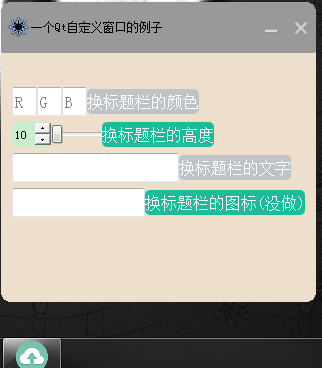
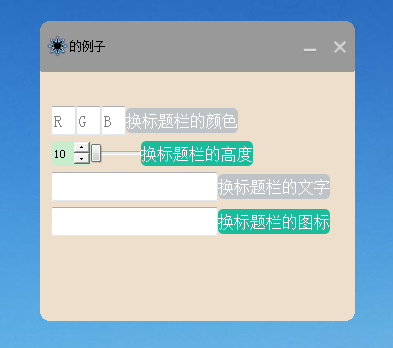
修改的变量

diff --git a/succ.cpp b/succ.cpp
@@ -49,9 +49,9 @@ void succ::SetRect()
 void succ::SetColor()
 {
   bool ok;
-  int a = color_text1->text().toInt(&ok,10),
-      b = color_text2->text().toInt(&ok,10),
-      c = color_text3->text().toInt(&ok,10);  //将QString类型转换为int类型
+  int a = m_pTextColorR->text().toInt(&ok,10),
+      b = m_pTextColorG->text().toInt(&ok,10),
+      c = m_pTextColorB->text().toInt(&ok,10);  //将QString类型转换为int类型
 
   if(a<0 ||a>255|| b<0 ||b>255|| c<0 ||c>255)
      {
@@ -70,17 +70,17 @@ void succ::SetColor()
 void succ::Interface()
 {
 //颜色
-  color_btn = new QPushButton(QStringLiteral("换标题栏的颜色"));
-  color_text1 =new QLineEdit;color_text1->setPlaceholderText("R");color_text1->setFixedWidth(25);
-  color_text2 =new QLineEdit;color_text2->setPlaceholderText("G");color_text2->setFixedWidth(25);
-  color_text3 =new QLineEdit;color_text3->setPlaceholderText("B");color_text3->setFixedWidth(25);
-  hb = new QHBoxLayout;
-  hb->setSpacing(0); //使hb中的控件间的间距为0
-  hb->addWidget(color_text1);
-  hb->addWidget(color_text2);
-  hb->addWidget(color_text3);
-  hb->addWidget(color_btn);
-  hb->addStretch();//靠左对齐
+  m_pBtnColor = new QPushButton(QStringLiteral("换标题栏的颜色"));
+  m_pTextColorR =new QLineEdit;m_pTextColorR->setPlaceholderText("R");m_pTextColorR->setFixedWidth(25);
+  m_pTextColorG =new QLineEdit;m_pTextColorG->setPlaceholderText("G");m_pTextColorG->setFixedWidth(25);
+  m_pTextColorB =new QLineEdit;m_pTextColorB->setPlaceholderText("B");m_pTextColorB->setFixedWidth(25);
+  m_pColorLayout = new QHBoxLayout;
+  m_pColorLayout->setSpacing(0); //使hb中的控件间的间距为0
+  m_pColorLayout->addWidget(m_pTextColorR);
+  m_pColorLayout->addWidget(m_pTextColorG);
+  m_pColorLayout->addWidget(m_pTextColorB);
+  m_pColorLayout->addWidget(m_pBtnColor);
+  m_pColorLayout->addStretch();//靠左对齐
 
 
 
@@ -89,12 +89,12 @@ void succ::Interface()
   int nMax = 100;
   int nSingleStep = 5;
   // 微调框
-  pSpinBox = new QSpinBox(this);
-  pSpinBox->setFixedWidth(40);
-  pSpinBox->setMinimum(nMin);  // 最小值
-  pSpinBox->setMaximum(nMax);  // 最大值
-  pSpinBox->setSingleStep(nSingleStep);  // 步长
-  pSpinBox->setValue(10); //默认值为10
+  m_pSpinBox = new QSpinBox(this);
+  m_pSpinBox->setFixedWidth(40);
+  m_pSpinBox->setMinimum(nMin);  // 最小值
+  m_pSpinBox->setMaximum(nMax);  // 最大值
+  m_pSpinBox->setSingleStep(nSingleStep);  // 步长
+  m_pSpinBox->setValue(10); //默认值为10
 
   // 滑动条
   QSlider *pSlider = new QSlider(this);
@@ -107,69 +107,69 @@ void succ::Interface()
 
 
 
-  btn_h = new QPushButton(QStringLiteral("换标题栏的高度"));
-  hb1 = new QHBoxLayout;
-  hb1->addWidget(pSpinBox);
-  hb1->addWidget(pSlider);
-  hb1->addWidget(btn_h);
-  hb1->addStretch();//靠左对齐
-  hb1->setSpacing(0); //使hb中的控件间的间距为0
+  m_pBtnHeight = new QPushButton(QStringLiteral("换标题栏的高度"));
+  m_pSliderLayout = new QHBoxLayout;
+  m_pSliderLayout->addWidget(m_pSpinBox);
+  m_pSliderLayout->addWidget(pSlider);
+  m_pSliderLayout->addWidget(m_pBtnHeight);
+  m_pSliderLayout->addStretch();//靠左对齐
+  m_pSliderLayout->setSpacing(0); //使hb中的控件间的间距为0
 
 
 //文字
 
-  btn_t = new QPushButton(QStringLiteral("换标题栏的文字"));
-  T_text = new QLineEdit;
-  hb2 = new QHBoxLayout;
-  hb2->addWidget(T_text);
-  hb2->addWidget(btn_t);
-  hb2->addStretch();//靠左对齐
-  hb2->setSpacing(0); //使hb中的控件间的间距为0
+  m_pBtnText = new QPushButton(QStringLiteral("换标题栏的文字"));
+  m_pText = new QLineEdit;
+  m_pTextLayout = new QHBoxLayout;
+  m_pTextLayout->addWidget(m_pText);
+  m_pTextLayout->addWidget(m_pBtnText);
+  m_pTextLayout->addStretch();//靠左对齐
+  m_pTextLayout->setSpacing(0); //使hb中的控件间的间距为0
 
 
 
  //图标
-  T_ico = new QLineEdit;
-  btn_i = new QPushButton(QStringLiteral("换标题栏的图标(没做)"));
-  hb3 = new QHBoxLayout;
-  hb3->addWidget(T_ico);
-  hb3->addWidget(btn_i);
-  hb3->addStretch();//靠左对齐
-  hb3->setSpacing(0); //使hb中的控件间的间距为0
+  m_pIco = new QLineEdit;
+  m_pBtnIco = new QPushButton(QStringLiteral("换标题栏的图标"));
+  m_pIcoLayout = new QHBoxLayout;
+  m_pIcoLayout->addWidget(m_pIco);
+  m_pIcoLayout->addWidget(m_pBtnIco);
+  m_pIcoLayout->addStretch();//靠左对齐
+  m_pIcoLayout->setSpacing(0); //使hb中的控件间的间距为0
 
 
-  QVBoxLayout *vb = new QVBoxLayout;
-  vb->addStretch();
-  vb->addLayout(hb);
-  vb->addLayout(hb1);
-  vb->addLayout(hb2);
-  vb->addLayout(hb3);
-  vb->addStretch();
+  QVBoxLayout *pvbLayout = new QVBoxLayout;
+  pvbLayout->addStretch();
+  pvbLayout->addLayout(m_pColorLayout);
+  pvbLayout->addLayout(m_pSliderLayout);
+  pvbLayout->addLayout(m_pTextLayout);
+  pvbLayout->addLayout(m_pIcoLayout);
+  pvbLayout->addStretch();
 
 
 
-  color_btn->setObjectName("ButtonColor");
-  color_text1->setObjectName("LineEdit");
-  color_text2->setObjectName("LineEdit");
-  color_text3->setObjectName("LineEdit");
+  m_pBtnColor->setObjectName("ButtonColor");
+  m_pTextColorR->setObjectName("LineEdit");
+  m_pTextColorG->setObjectName("LineEdit");
+  m_pTextColorB->setObjectName("LineEdit");
 
-  btn_h->setObjectName("ButtonHeight");
-  btn_t->setObjectName("ButtonColor");
-  btn_i->setObjectName("ButtonHeight");
+  m_pBtnHeight->setObjectName("ButtonHeight");
+  m_pBtnText->setObjectName("ButtonColor");
+  m_pBtnIco->setObjectName("ButtonHeight");
 
-  T_ico->setObjectName("LineEdit");
-  T_text->setObjectName("LineEdit");
+  m_pIco->setObjectName("LineEdit");
+  m_pText->setObjectName("LineEdit");
 
-  this->setLayout(vb);
+  this->setLayout(pvbLayout);
 
   // 连接信号槽（相互改变）
-  connect(pSpinBox, SIGNAL(valueChanged(int)), pSlider, SLOT(setValue(int)));
-  connect(pSlider, SIGNAL(valueChanged(int)), pSpinBox, SLOT(setValue(int)));
+  connect(m_pSpinBox, SIGNAL(valueChanged(int)), pSlider, SLOT(setValue(int)));
+  connect(pSlider, SIGNAL(valueChanged(int)), m_pSpinBox, SLOT(setValue(int)));
 
-  connect(color_btn,SIGNAL(clicked()),this,SLOT(SetColor()));
-  connect(btn_t,SIGNAL(clicked()),this,SLOT(SetText()));
-  connect(btn_h,SIGNAL(clicked()),this,SLOT(SetHeight()));
-  connect(btn_i,SIGNAL(clicked()),this,SLOT(SetIco()));
+  connect(m_pBtnColor,SIGNAL(clicked()),this,SLOT(SetColor()));
+  connect(m_pBtnText,SIGNAL(clicked()),this,SLOT(SetText()));
+  connect(m_pBtnHeight,SIGNAL(clicked()),this,SLOT(SetHeight()));
+  connect(m_pBtnIco,SIGNAL(clicked()),this,SLOT(SetIco()));
 
 
 
@@ -179,7 +179,7 @@ void succ::Interface()
 void succ::SetText()
 {
   QString str;
-  str = T_text->text();
+  str = m_pText->text();
   m_titleBar->setTitleContent(str);
 }
 
@@ -188,7 +188,7 @@ void succ::SetIco()
 {
   //getOpenFileName()的参数，1--指定父组件，2--指定对话框标题，3--对话框显示时的默认打开目录，4--对话框显示的文件类型（只显示指定后缀名的）
     QString filePath= QFileDialog::getOpenFileName(this,tr("选择文件"),"","");
-    T_ico->setText(filePath);
+    m_pIco->setText(filePath);
 
     //以下操作是为了保存文件名与文件后缀名
    QStringList  pathList1 = filePath.split("/");
@@ -205,7 +205,7 @@ void succ::SetIco()
 
 void succ::SetHeight()
 {
-  int a = pSpinBox->value();
+  int a = m_pSpinBox->value();
   m_titleBar->setFixedHeight(a);
 }
 

diff --git a/succ.h b/succ.h
@@ -31,15 +31,25 @@ public:
 
 private:
         void initTitleBar();
-        QPushButton *color_btn;
-        QLineEdit   *color_text1,*color_text2,*color_text3;
-        QHBoxLayout *hb;
+        QPushButton *m_pBtnColor;
+        QPushButton *m_pBtnText;
+        QPushButton *m_pBtnHeight;
+        QPushButton *m_pBtnIco;
 
-        QHBoxLayout *hb1,*hb2,*hb3;
+        QLineEdit   *m_pTextColorR;
+        QLineEdit   *m_pTextColorG;
+        QLineEdit   *m_pTextColorB;
+        QLineEdit   *m_pText;
+        QLineEdit   *m_pIco;
 
-        QPushButton *btn_h,*btn_t,*btn_i;
-        QLineEdit   *T_text ,*T_ico;
-        QSpinBox *pSpinBox;
+        QHBoxLayout *m_pColorLayout;
+        QHBoxLayout *m_pSliderLayout;
+        QHBoxLayout *m_pIcoLayout;
+        QHBoxLayout *m_pTextLayout;
+
+
+        QSpinBox *m_pSpinBox;
+
         void loadStyleSheet(const QString &sheetName);
 
 
